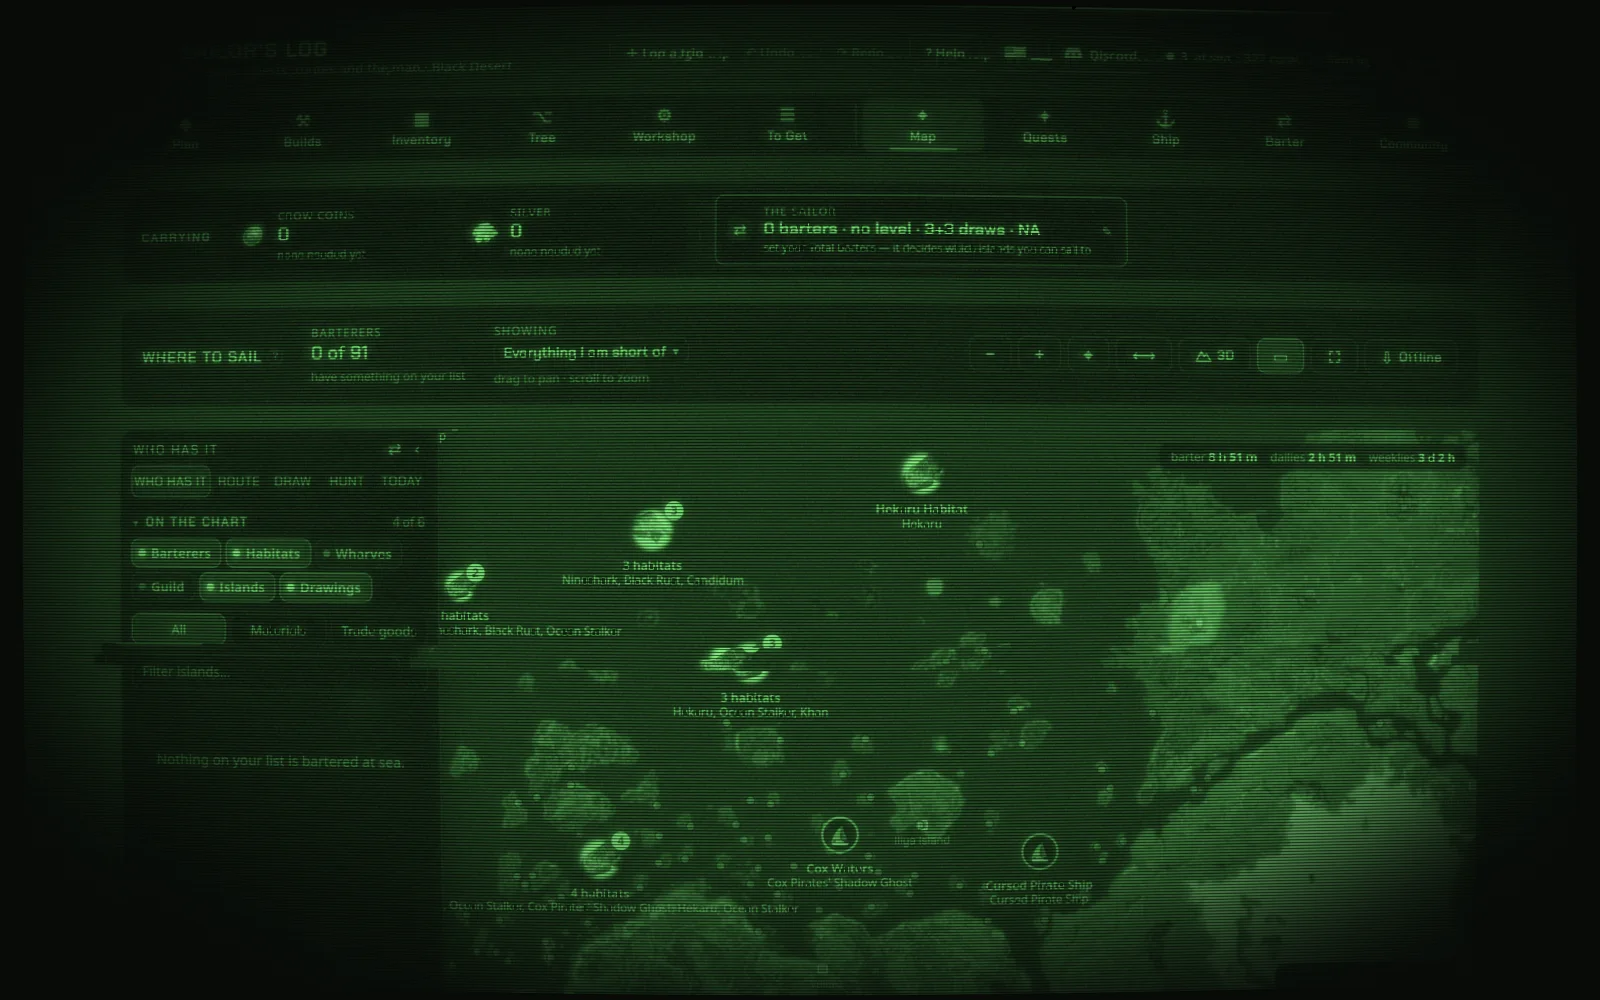
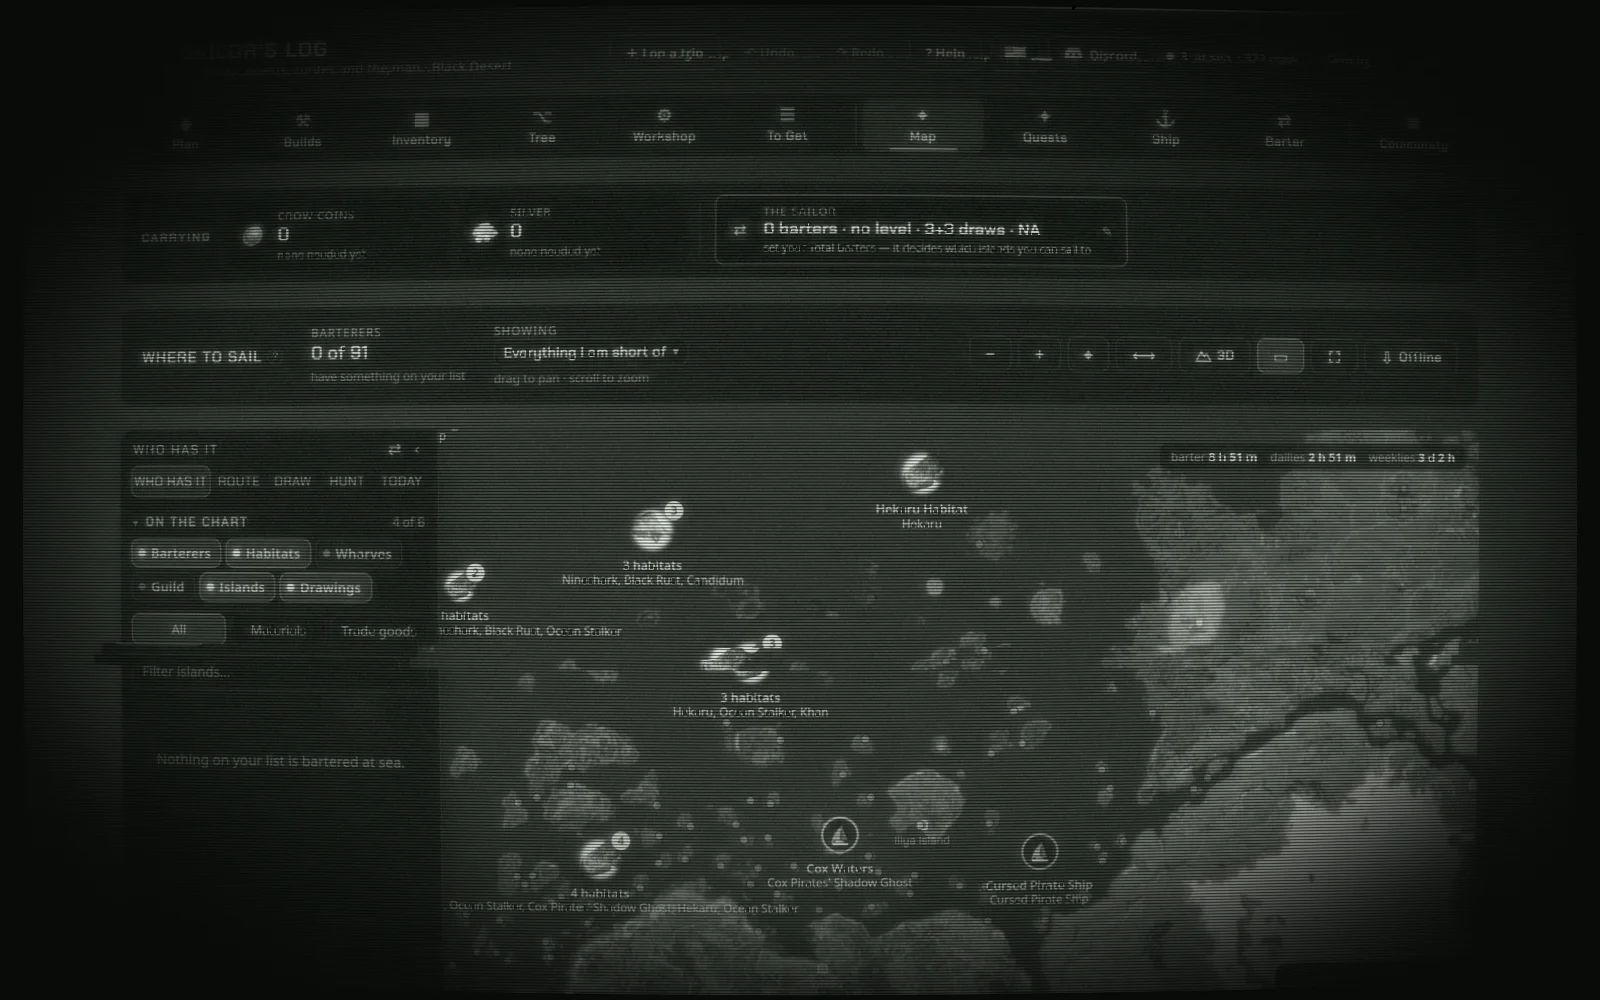
the CRT frames go monochrome: a white phosphor barely tinted toward the ink instead of green, so the one accent on the page stays the /youtube row

diff --git a/tools/crt.py b/tools/crt.py
@@ -8,7 +8,7 @@ invert = "--invert" in sys.argv
 seed = int(sys.argv[sys.argv.index("--seed") + 1]) if "--seed" in sys.argv else 1
 random.seed(seed)
 W, H = 1600, 1000
-PAPER, PHOSPHOR, HOT = "#070a07", "#62d95f", "#b8ffb0"   # paper, the glyph-5 green and a hotter highlight for bloom
+PAPER, PHOSPHOR, HOT = "#070a07", "#c4ccc0", "#eef3ea"   # paper, a white phosphor barely tinted toward the ink, and a hotter highlight for bloom
 tmp = tempfile.mkdtemp()
 grey = os.path.join(tmp, "grey.png"); scan = os.path.join(tmp, "scan.png")
 run = lambda *a: subprocess.run(["magick", *a], check=True)

diff --git a/design.md b/design.md
@@ -30,7 +30,7 @@ The spacing scale, the type scale, the easings and the durations are the scaffol
 One family, Martian Mono, weights 400 and 500 only. Heads at width 112.5%, text at 87.5%. Paths are set as titles (`--text-title`, 500, wide). Labels in `--color-muted`, sentence case, untracked. No italics, no caps.
 
 ## Surfaces and pictures
-One hue in lightness steps; hairlines in `--color-rule`, firmer lines in `--color-rule-2`; no radius, no shadow, no glow. The mark is printed in type (`tools/glyphs.py`). Product captures are real screenshots baked into phosphor CRT frames by `tools/crt.py` (grey, inverted when the interface is light, noise, green phosphor, bloom, scanlines, a few torn bands, barrel curvature, vignette), inside a 1px rule; the page adds only a faint flicker. No photographs.
+One hue in lightness steps; hairlines in `--color-rule`, firmer lines in `--color-rule-2`; no radius, no shadow, no glow. The mark is printed in type (`tools/glyphs.py`). Product captures are real screenshots baked into phosphor CRT frames by `tools/crt.py` (grey, inverted when the interface is light, noise, white phosphor, bloom, scanlines, a few torn bands, barrel curvature, vignette), inside a 1px rule; the page adds only a faint flicker. No photographs.
 
 ## Controls
 - Primary: a full-width accent block (`--color-accent` on `--color-accent-ink`), square, 72px tall, state in `steps(1)`.
